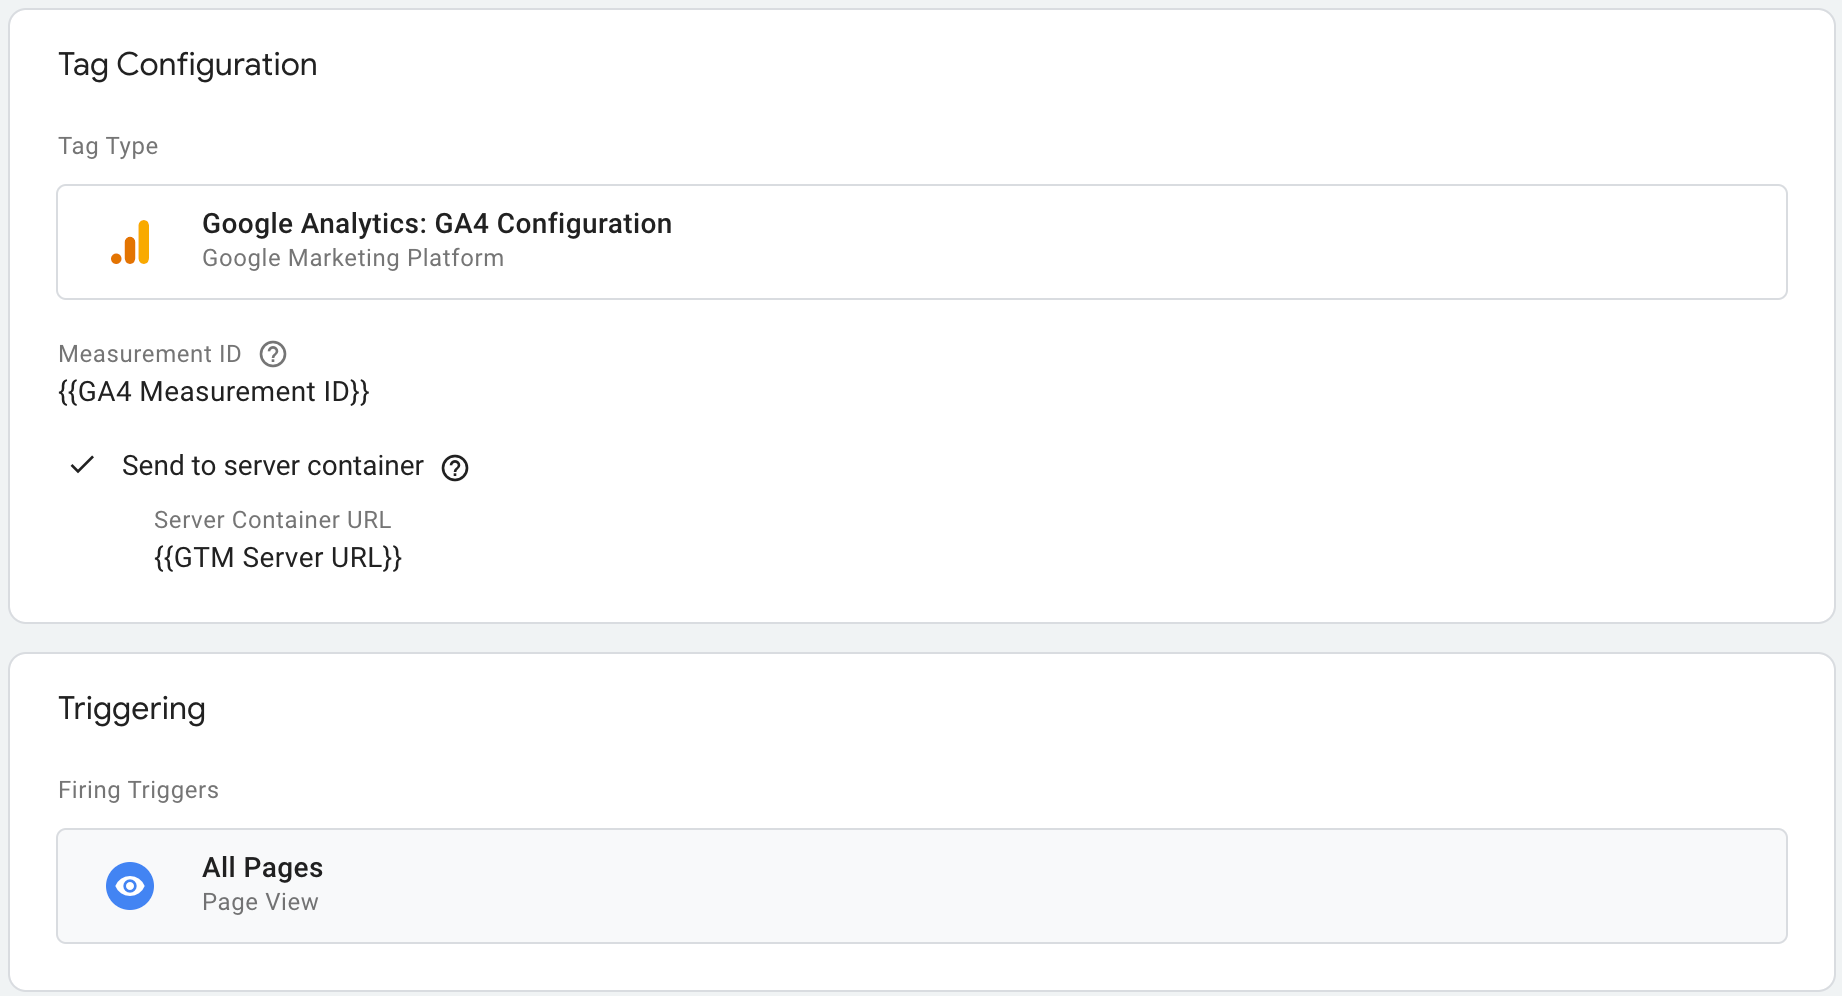
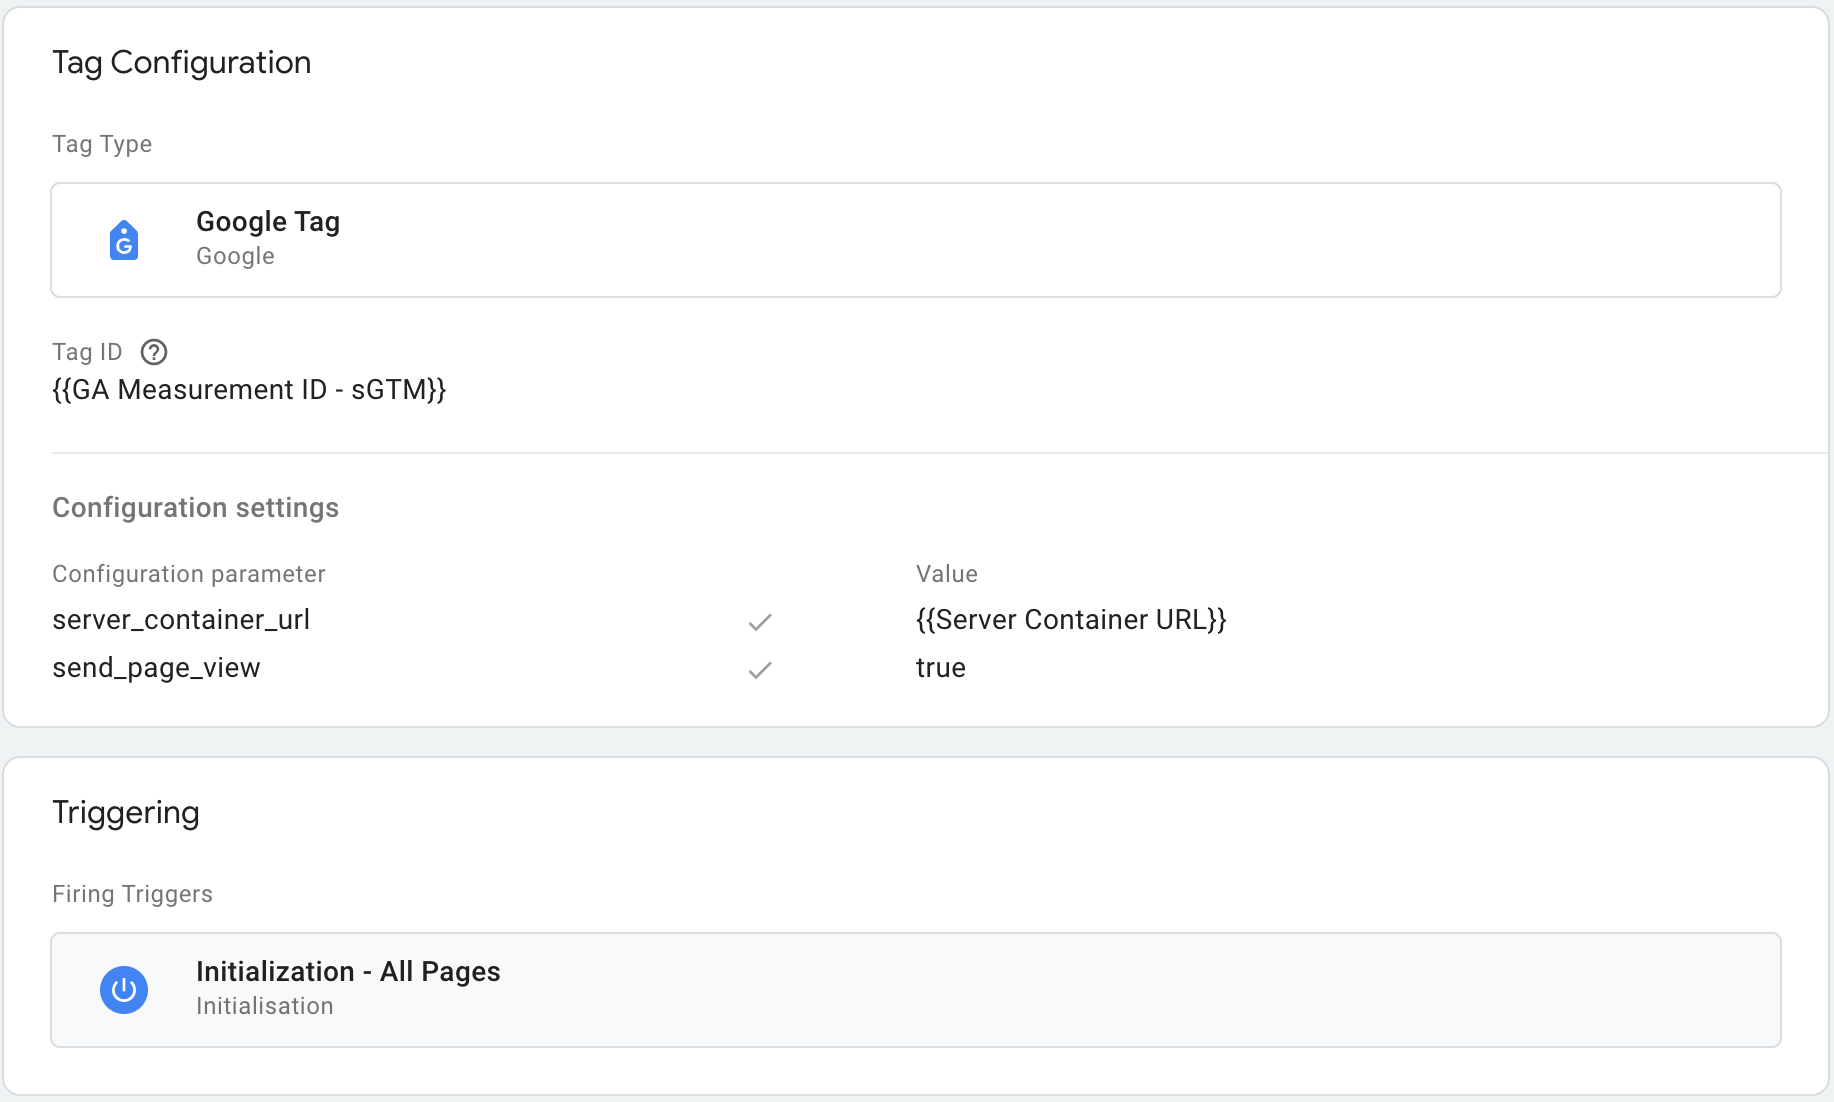
Update images to use the Google Tag.
The GTM web container now uses a Google Tag in place of the GA4 tag to send data to the server.

This change updates the images to show the latest configuration.

diff --git a/docs/README.md b/docs/README.md
@@ -183,8 +183,8 @@ purchase event is configured. This follows the
 ### GTM Web Container
 
 There is nothing special about the Google Tag Manager web container set up. In
-this demo, a GA4 configuration is set up to send events to our server container,
-see [image 4](#image-4).
+this demo, a Google Tag is set up to send events to our server container, see
+[image 4](#image-4).
 
 ![image4.png](./img/image4.png)
 
